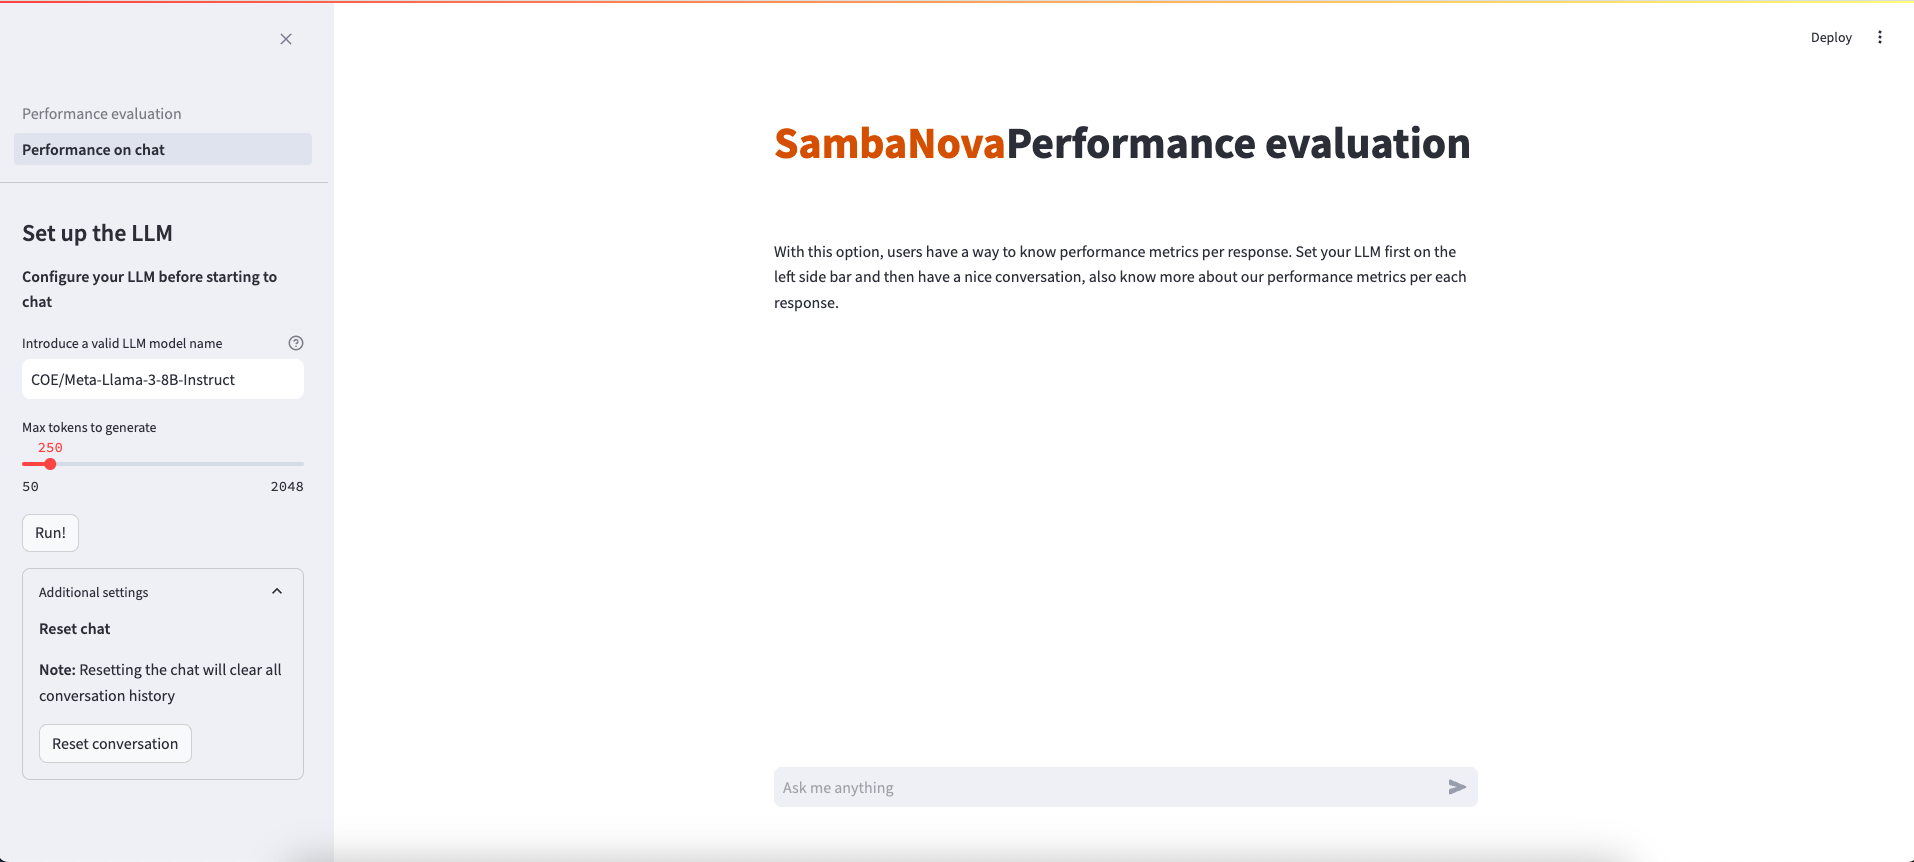
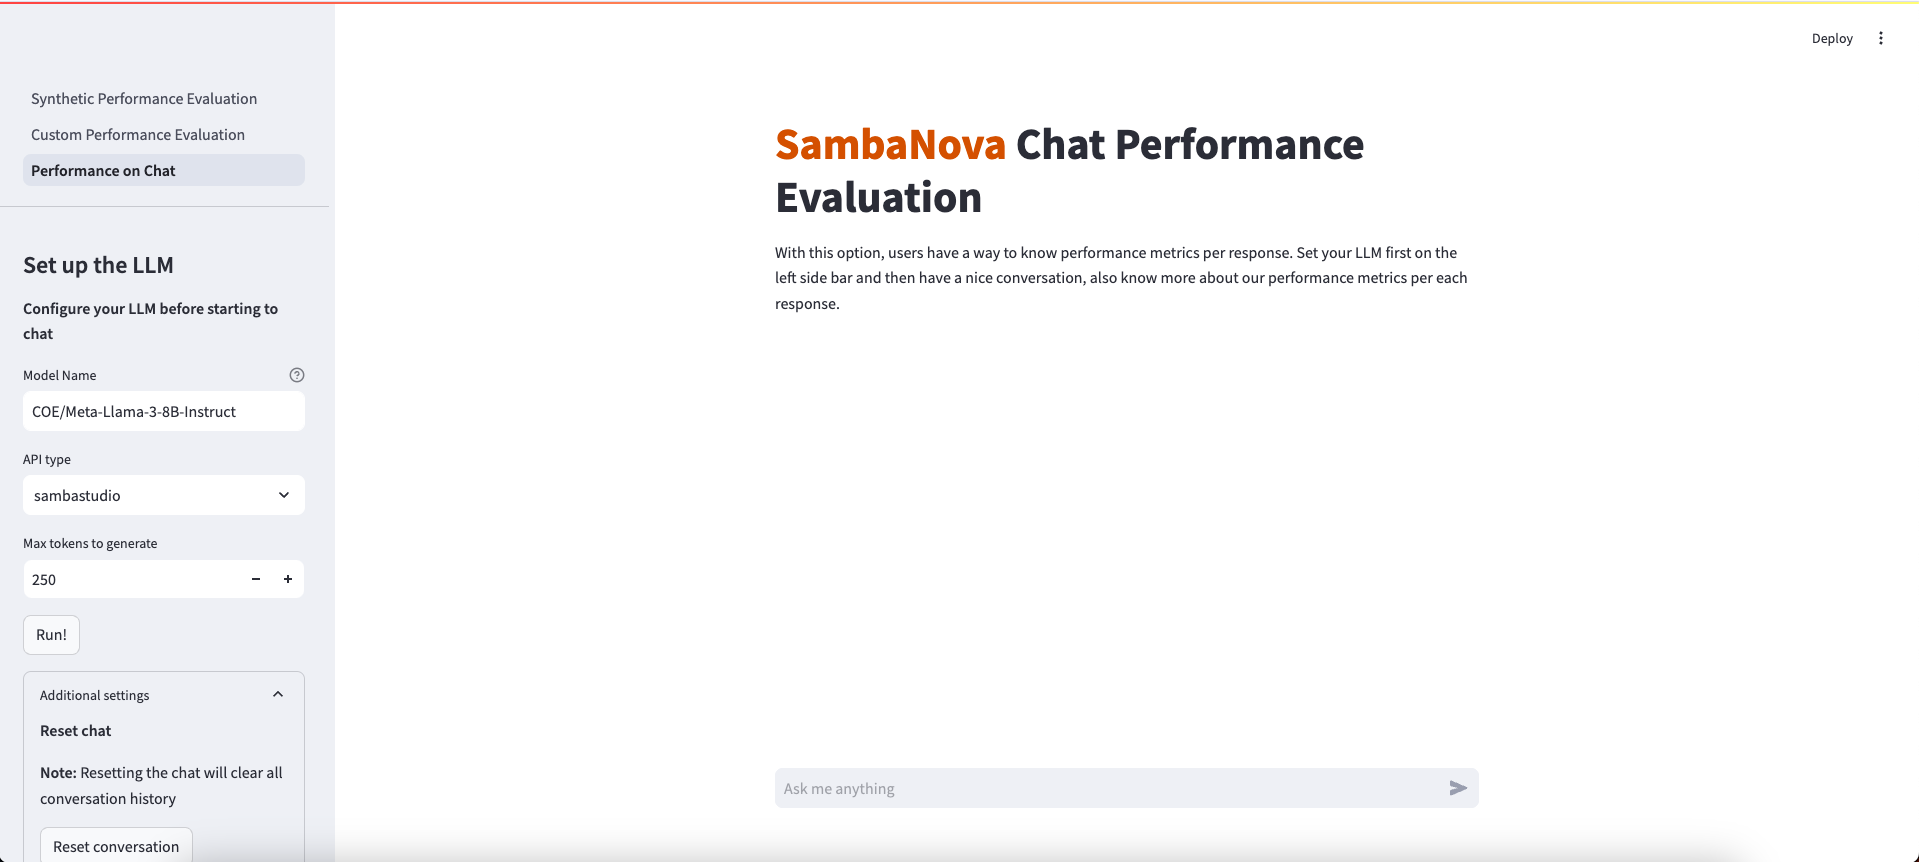
Updated readme and images with more reference about fastapi and newest UI modifications

diff --git a/benchmarking/README.md b/benchmarking/README.md
@@ -49,7 +49,7 @@ This sample is ready-to-use. We provide:
    
 # Before you begin
 
-To perform this setup, you must be a SambaNova customer with a SambaStudio account. You also have to set up your environment before you can run or customize the starter kit. 
+To perform this setup, you must be a SambaNova customer with a SambaStudio account or a FastCOE API key. You also have to set up your environment before you can run or customize the starter kit. 
 
 _These steps assume a Mac/Linux/Unix shell environment. If using Windows, you will need to adjust some commands for navigating folders, activating virtual environments, etc._
 
@@ -60,7 +60,7 @@ Clone the starter kit repo.
 git clone https://github.com/sambanova/ai-starter-kit.git
 ```
 
-## Set up the account and config file
+## Set up for SambaStudio users
 
 1. Log in to SambaStudio and get your API authorization key. The steps for getting this key are described [here](https://docs.sambanova.ai/sambastudio/latest/cli-setup. 
 
@@ -79,6 +79,15 @@ git clone https://github.com/sambanova/ai-starter-kit.git
         SAMBASTUDIO_ENDPOINT_ID="456789ab-cdef-0123-4567-89abcdef0123"
         SAMBASTUDIO_API_KEY="89abcdef-0123-4567-89ab-cdef01234567"
     ```
+
+## Set up for FastAPI CoE users
+
+In the repo root directory, create an env file in `ai-starter-kit/.env` and specify the FastAPI CoE url and the FastAPI CoE API key (with no spaces), as in the following example:
+
+``` bash
+        FASTAPI_URL = "https://abcd.snova.ai/api/v1/chat/completion"
+        FASTAPI_API_KEY = "456789abcdef0123456789abcdef0123"
+```
 
 ## Create the (virtual) environment
 1. (Recommended) Create a virtual environment and activate it (python version 3.11 recommended): 
@@ -128,9 +137,11 @@ After you've deployed the GUI, you can use the starter kit. More details will co
   - [`Custom Performance Evaluation`](#custom-performance-evaluation): Evaluate the performance of the selected LLM on custom data specified by you.
   - [`Performance on Chat`](#performance-on-chat): Evaluate the performance of the selected LLM in a chat interface.
 
-2. If the deployed LLM is a Composition of Experts (CoE), specify the desired expert in the corresponding text box, then set the configuration parameters. If the deployed LLM is not a CoE, simply set the configuration parameters.
+2. If the deployed LLM is a Composition of Experts (CoE), specify the desired expert in the corresponding text box and then set the configuration parameters. If the deployed LLM is not a CoE, simply set the configuration parameters.
 
-3. After pressing the `Run` button, the program will perform inference on the data and product results in the middle of the screen. In the case of `Performance on Chat` functionality, users are able to interact with the LLM in a multi-turn chat interface.  
+3. If the deployed LLM is a FastAPI endpoint, choose in the API type dropdown the `fastapi` option. 
+
+4. After pressing the `Run` button, the program will perform inference on the data and product results in the middle of the screen. In the case of `Performance on Chat` functionality, users are able to interact with the LLM in a multi-turn chat interface.  
 
 ### Full Walkthrough
 
@@ -140,7 +151,7 @@ There are 3 options on the left side bar for running the benchmarking tool. Pick
 
 This option allows you to evaluate the performance of the selected LLM on synthetic data generated by this benchmarking tool.
 
-1. Enter a model name
+1. Enter a model name and choose the right API type
 
 **__Note__**: Currently we have specific prompting support for Llama2, Llama3, Mistral, Deepseek, Solar, and Eeve. Other instruction models use a generic prompt format.
 
@@ -148,6 +159,8 @@ This option allows you to evaluate the performance of the selected LLM on synthe
     - The model name should mirror the name shown in studio, preceded with `COE/` - 
     - For example, the Samba-1 Turbo Llama-3-8B expert in studio is titled `Meta-Llama-3-8B-Instruct` so my model name would be `COE/Meta-Llama-3-8B-Instruct`.
   - If the model is a standalone model, enter the full model name shown on the model card. I.e. `Llama-2-70b-chat-hf`.
+  - If the model is a FastAPI, then be aware of the right model names used. Then, choose `fastapi` in the API type dropdown option.
+    - For example, the Llama-3-8B model in FastAPI is titles `llama3-8b` so that will be the model name
 
 2. Set the configuration parameters
 
@@ -201,7 +214,7 @@ This option allows you to evaluate the performance of the selected LLM on your o
 - The entered path should be an absolute path to your dataset.
   - For example: `/Users/johndoe/Documents/my_dataset.jsonl`
 
-3. Enter a model name
+3. Enter a model name and choose the right API type
 
 **__Note__**: Currently we have specific prompting support for Llama2, Llama3, Mistral, Deepseek, Solar, and Eeve. Other instruction models use a generic prompt format.
 
@@ -209,6 +222,8 @@ This option allows you to evaluate the performance of the selected LLM on your o
     - The model name should mirror the name shown in studio, preceded with `COE/` - 
     - For example, the Samba-1 Turbo Llama-3-8B expert in studio is titled `Meta-Llama-3-8B-Instruct` so my model name would be `COE/Meta-Llama-3-8B-Instruct`.
   - If the model is a standalone model, enter the full model name shown on the model card. I.e. `Llama-2-70b-chat-hf`.
+  - If the model is a FastAPI, then be aware of the right model names used. Then, choose `fastapi` in the API type dropdown option.
+    - For example, the Llama-3-8B model in FastAPI is titles `llama3-8b` so that will be the model name
 
 4. Set the configuration and tuning parameters
 
@@ -244,12 +259,14 @@ This option allows you to measure performance during a multi-turn conversation w
 
 ![perf_on_chat_image](./imgs/performance_on_chat.png)
 
-1. Enter a model name
+1. Enter a model name and choose the right API type
 
   - If the model specified is a CoE, specify the desired expert in the Model Name text box.
     - The model name should mirror the name shown in studio, preceded with `COE/` - 
     - For example, the Samba-1 Turbo Llama-3-8B expert in studio is titled `Meta-Llama-3-8B-Instruct` so my model name would be `COE/Meta-Llama-3-8B-Instruct`.
   - If the model is a standalone model, enter the full model name shown on the model card. I.e. `Llama-2-70b-chat-hf`.
+  - If the model is a FastAPI, then be aware of the right model names used. Then, choose `fastapi` in the API type dropdown option.
+    - For example, the Llama-3-8B model in FastAPI is titles `llama3-8b` so that will be the model name
 
 2. Set the configuration parameters
 
@@ -289,6 +306,7 @@ This method can be ran from a terminal session. Users have this option if they w
 
 1. Open the file `run_custom_dataset.sh` and configure the following parameters:
   - **model-name**: Model name to be used. If it's a COE model, add "COE/" prefix to the name. Example: "COE/Meta-Llama-3-8B-Instruct"
+  - **llm-api**: API type to be chosen. If it's a fastapi model, double check the right model name spelling because it's shorter then other sambastudio model names.
   - **results-dir**: Path to the results directory. _Default_: "./data/results/llmperf"
   - **num-workers**: Number of concurrent workers. _Default_: 1
   - **timeout**: Timeout in seconds. _Default_: 600
@@ -332,6 +350,7 @@ sh run_custom_dataset.sh
 
 1. Open the file `run_synthetic_dataset.sh` and configure the following parameters:
   - **model-name**: Model name to be used. If it's a COE model, add "COE/" prefix to the name. Example: "COE/Meta-Llama-3-8B-Instruct"
+  - **llm-api**: API type to be chosen. If it's a fastapi model, double check the right model name spelling because it's shorter then other sambastudio model names.
   - **results-dir**: Path to the results directory. _Default_: "./data/results/llmperf"
   - **num-workers**: Number of concurrent workers. _Default_: 1
   - **timeout**: Timeout in seconds. _Default_: 600
@@ -398,8 +417,8 @@ Batching setup
 
 All the packages/tools are listed in the requirements.txt file in the project directory. Some of the main packages are listed below:
 
-- streamlit (version 1.34.0)
-- st-pages (version 0.4.5)
+- streamlit (version 1.37.0)
+- st-pages (version 0.5.0)
 - transformers (version 4.40.1)
 - python-dotenv (version 1.0.0)
 - Requests (version 2.31.0)
